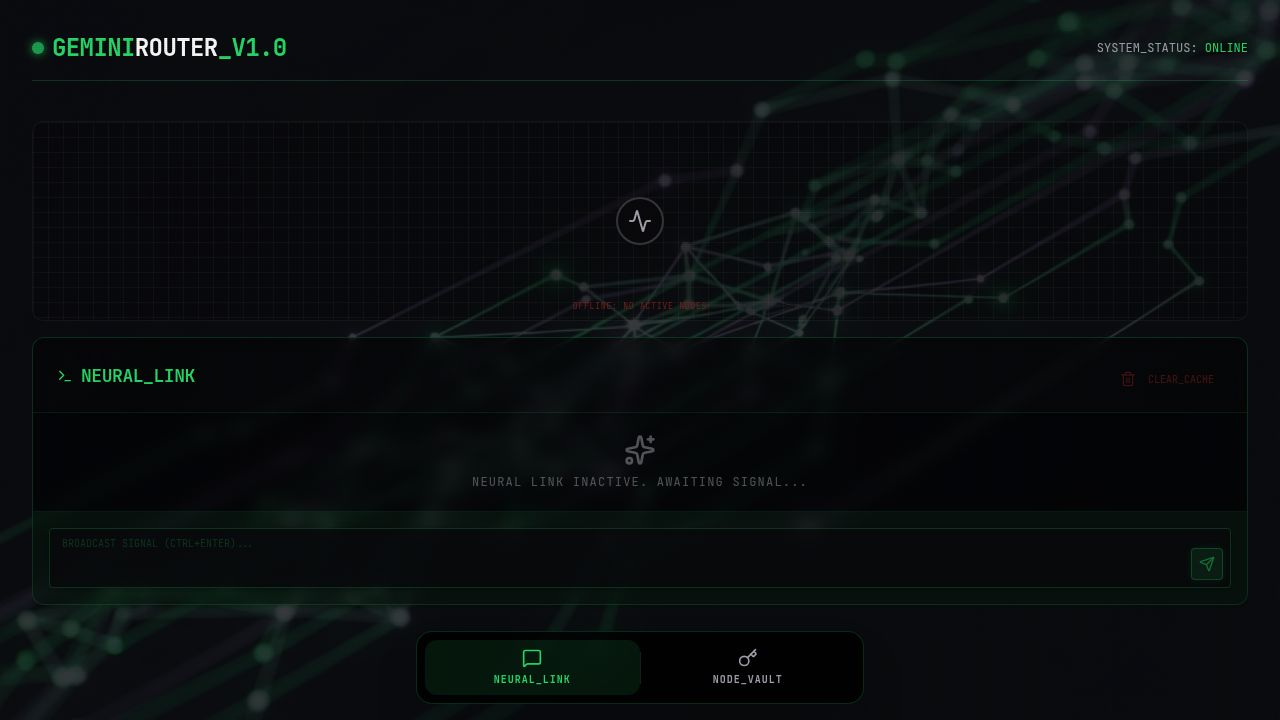
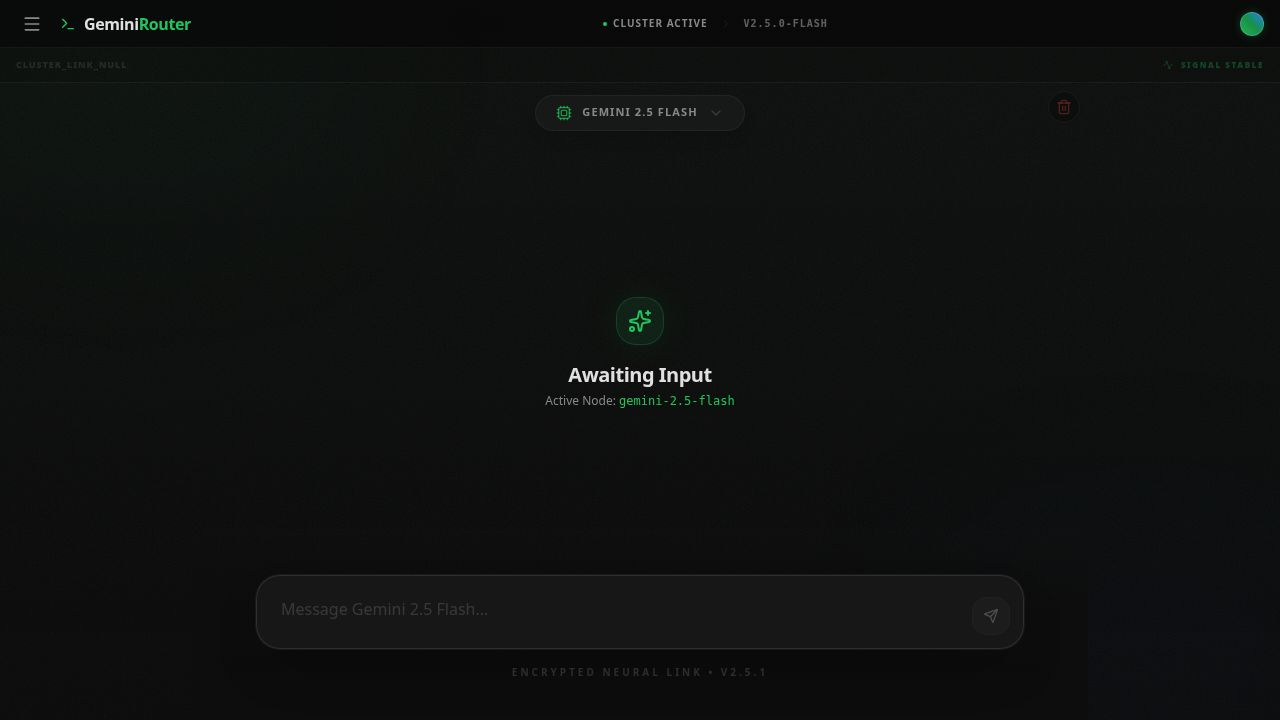
Add a swipeable sidebar for chat history and node management
Integrates a new slide-out sidebar accessible via a left-edge swipe gesture or a menu icon, consolidating chat history and node management (previously in tabs) into a unified interface within the Shell component.

Replit-Commit-Author: Agent
Replit-Commit-Session-Id: 7e080b33-37b4-4b92-8149-df456c27e233
Replit-Commit-Checkpoint-Type: full_checkpoint
Replit-Commit-Event-Id: 03c8e04e-90b6-4cfb-8f2e-70643411be24
Replit-Commit-Screenshot-Url: https://storage.googleapis.com/screenshot-production-us-central1/65e4f3bc-a522-4b14-b7e2-086b0df79833/7e080b33-37b4-4b92-8149-df456c27e233/GoEwOzA
Replit-Helium-Checkpoint-Created: true

diff --git a/client/src/components/layout/Shell.tsx b/client/src/components/layout/Shell.tsx
@@ -1,18 +1,46 @@
-import React, { useState } from 'react';
+import React, { useState, useEffect } from 'react';
 import { cn } from '@/lib/utils';
-import { Sparkles, Terminal, Activity, ShieldCheck, ChevronRight, Settings, X } from 'lucide-react';
+import { Terminal, Activity, ShieldCheck, ChevronRight, Settings, X, MessageSquare, History, Menu } from 'lucide-react';
 import { motion, AnimatePresence } from 'framer-motion';
 
 interface ShellProps {
   children: React.ReactNode;
   settingsContent?: React.ReactNode;
+  historyContent?: React.ReactNode;
 }
 
-export function Shell({ children, settingsContent }: ShellProps) {
-  const [isSettingsOpen, setIsSettingsOpen] = useState(false);
+export function Shell({ children, settingsContent, historyContent }: ShellProps) {
+  const [isSidebarOpen, setIsSidebarOpen] = useState(false);
+  const [touchStart, setTouchStart] = useState<number | null>(null);
+
+  // Swipe logic
+  useEffect(() => {
+    const handleTouchStart = (e: TouchEvent) => {
+      if (e.touches[0].clientX < 50) {
+        setTouchStart(e.touches[0].clientX);
+      }
+    };
+
+    const handleTouchMove = (e: TouchEvent) => {
+      if (touchStart !== null) {
+        const touchEnd = e.touches[0].clientX;
+        if (touchEnd - touchStart > 70) {
+          setIsSidebarOpen(true);
+          setTouchStart(null);
+        }
+      }
+    };
+
+    window.addEventListener('touchstart', handleTouchStart);
+    window.addEventListener('touchmove', handleTouchMove);
+    return () => {
+      window.removeEventListener('touchstart', handleTouchStart);
+      window.removeEventListener('touchmove', handleTouchMove);
+    };
+  }, [touchStart]);
 
   return (
-    <div className="min-h-screen w-full bg-[#0d0d0d] text-[#e0e0e0] font-sans selection:bg-primary/30 selection:text-primary">
+    <div className="min-h-screen w-full bg-[#0d0d0d] text-[#e0e0e0] font-sans selection:bg-primary/30 selection:text-primary overflow-hidden">
       {/* Dynamic Background */}
       <div className="fixed inset-0 z-0 overflow-hidden pointer-events-none">
         <div className="absolute top-[-10%] left-[-10%] w-[40%] h-[40%] bg-primary/5 rounded-full blur-[120px] animate-pulse" />
@@ -25,9 +53,17 @@ export function Shell({ children, settingsContent }: ShellProps) {
         {/* Content Area */}
         <div className="flex-1 flex flex-col relative overflow-hidden bg-gradient-to-b from-black/0 to-black/20">
           <header className="h-12 flex items-center justify-between px-4 border-b border-white/5 bg-black/40 backdrop-blur-xl shrink-0">
-            <div className="flex items-center gap-2">
-              <Terminal className="w-4 h-4 text-primary" />
-              <span className="font-bold tracking-tight text-base">Gemini<span className="text-primary">Router</span></span>
+            <div className="flex items-center gap-3">
+              <button 
+                onClick={() => setIsSidebarOpen(true)}
+                className="p-1.5 rounded-lg hover:bg-white/5 text-muted-foreground transition-all"
+              >
+                <Menu className="w-5 h-5" />
+              </button>
+              <div className="flex items-center gap-2">
+                <Terminal className="w-4 h-4 text-primary" />
+                <span className="font-bold tracking-tight text-base">Gemini<span className="text-primary">Router</span></span>
+              </div>
             </div>
             
             <div className="hidden md:flex items-center gap-3 text-[10px] text-muted-foreground uppercase font-bold tracking-widest">
@@ -40,13 +76,7 @@ export function Shell({ children, settingsContent }: ShellProps) {
             </div>
 
             <div className="flex items-center gap-2">
-              <button 
-                onClick={() => setIsSettingsOpen(true)}
-                className="p-1.5 rounded-lg hover:bg-white/5 text-muted-foreground transition-all"
-              >
-                <Settings className="w-4 h-4" />
-              </button>
-              <div className="w-6 h-6 rounded-full bg-gradient-to-tr from-primary via-primary/80 to-accent border border-white/20 shadow-[0_0_15px_rgba(34,197,94,0.4)] animate-pulse-subtle" />
+              <div className="w-6 h-6 rounded-full bg-gradient-to-tr from-primary via-primary/80 to-accent border border-white/20 shadow-[0_0_10px_rgba(34,197,94,0.3)] animate-pulse-subtle" />
             </div>
           </header>
 
@@ -57,38 +87,69 @@ export function Shell({ children, settingsContent }: ShellProps) {
         </div>
       </div>
 
-      {/* Settings Panel Overlay */}
+      {/* Sidebar Overlay (Unified Chat History + Settings) */}
       <AnimatePresence>
-        {isSettingsOpen && (
+        {isSidebarOpen && (
           <>
             <motion.div 
               initial={{ opacity: 0 }}
               animate={{ opacity: 1 }}
               exit={{ opacity: 0 }}
-              onClick={() => setIsSettingsOpen(false)}
+              onClick={() => setIsSidebarOpen(false)}
               className="fixed inset-0 z-[100] bg-black/80 backdrop-blur-xl"
             />
             <motion.div 
-              initial={{ x: '100%', opacity: 0.5 }}
-              animate={{ x: 0, opacity: 1 }}
-              exit={{ x: '100%', opacity: 0.5 }}
+              initial={{ x: '-100%' }}
+              animate={{ x: 0 }}
+              exit={{ x: '-100%' }}
               transition={{ type: 'spring', damping: 30, stiffness: 300 }}
-              className="fixed top-2 right-2 bottom-2 z-[101] w-full max-w-lg bg-[#111]/95 backdrop-blur-3xl border border-white/10 rounded-3xl shadow-[0_0_50px_rgba(0,0,0,0.5)] flex flex-col overflow-hidden"
+              className="fixed top-0 left-0 bottom-0 z-[101] w-full max-w-sm bg-[#111] border-r border-white/10 shadow-2xl flex flex-col overflow-hidden"
             >
               <div className="h-14 flex items-center justify-between px-6 border-b border-white/5 bg-white/[0.02]">
                 <div className="flex items-center gap-2">
-                  <Settings className="w-3.5 h-3.5 text-primary" />
-                  <span className="font-bold uppercase tracking-widest text-[10px]">Cluster_Management</span>
+                  <Terminal className="w-4 h-4 text-primary" />
+                  <span className="font-bold uppercase tracking-widest text-[10px]">Neural_Terminal</span>
                 </div>
                 <button 
-                  onClick={() => setIsSettingsOpen(false)}
+                  onClick={() => setIsSidebarOpen(false)}
                   className="p-1.5 rounded-lg hover:bg-white/5 text-muted-foreground transition-all"
                 >
-                  <X className="w-4 h-4" />
+                  <X className="w-5 h-5" />
                 </button>
               </div>
-              <div className="flex-1 overflow-y-auto p-6 scrollbar-hide">
-                {settingsContent}
+              
+              <div className="flex-1 overflow-y-auto p-4 space-y-8 scrollbar-hide">
+                {/* Chat History Section */}
+                <div className="space-y-4">
+                  <div className="flex items-center gap-2 px-2">
+                    <History className="w-3.5 h-3.5 text-primary/60" />
+                    <span className="text-[10px] font-black uppercase tracking-[0.2em] text-muted-foreground">Recent_Signals</span>
+                  </div>
+                  <div className="space-y-1">
+                    {historyContent}
+                  </div>
+                </div>
+
+                {/* Settings/Cluster Section */}
+                <div className="space-y-4 pt-4 border-t border-white/5">
+                  <div className="flex items-center gap-2 px-2">
+                    <ShieldCheck className="w-3.5 h-3.5 text-primary/60" />
+                    <span className="text-[10px] font-black uppercase tracking-[0.2em] text-muted-foreground">Cluster_Vault</span>
+                  </div>
+                  <div className="px-1">
+                    {settingsContent}
+                  </div>
+                </div>
+              </div>
+
+              <div className="p-4 border-t border-white/5 bg-black/20">
+                <div className="flex items-center gap-3 px-2 py-3 rounded-xl bg-white/[0.03] border border-white/5">
+                  <div className="w-8 h-8 rounded-full bg-gradient-to-tr from-primary to-accent" />
+                  <div className="flex-1">
+                    <div className="text-[10px] font-bold text-foreground">OPERATOR_01</div>
+                    <div className="text-[8px] text-muted-foreground uppercase tracking-widest">Status: Synchronized</div>
+                  </div>
+                </div>
               </div>
             </motion.div>
           </>

diff --git a/client/src/pages/Dashboard.tsx b/client/src/pages/Dashboard.tsx
@@ -4,7 +4,7 @@ import { KeyManager } from '@/components/KeyManager';
 import { PromptPlayground } from '@/components/PromptPlayground';
 import { useGeminiKeys, sendGeminiPrompt } from '@/lib/gemini';
 import { useToast } from '@/hooks/use-toast';
-import { Activity } from 'lucide-react';
+import { Activity, MessageSquare } from 'lucide-react';
 import { cn } from '@/lib/utils';
 import { motion } from 'framer-motion';
 
@@ -30,10 +30,8 @@ export default function Dashboard() {
   const [isProcessing, setIsProcessing] = useState(false);
   const [selectedModel, setSelectedModel] = useState('gemini-2.5-flash');
 
-  // Handle model change and notify user
   const handleModelChange = (modelId: string) => {
     setSelectedModel(modelId);
-    // Note: In a real app, this might update the preferred model for the cluster
   };
 
   const handleSendPrompt = async (prompt: string, modelOverride?: string): Promise<string> => {
@@ -47,7 +45,6 @@ export default function Dashboard() {
     setActiveKeyId(keyToUse.id);
     addChatMessage('user', prompt);
 
-    // Use selected model from dropdown for this request
     const effectiveKey = { ...keyToUse, model: modelOverride || selectedModel };
 
     try {
@@ -65,26 +62,47 @@ export default function Dashboard() {
     }
   };
 
-  const settingsPanel = (
-    <div className="space-y-6">
-      <div className="space-y-1">
-        <h2 className="text-lg font-bold tracking-tight uppercase">Node Vault</h2>
-        <p className="text-muted-foreground text-[10px] font-bold uppercase opacity-60">Signal Routing Configuration</p>
-      </div>
-      <KeyManager 
-        keys={keys} 
-        autoSwitch={autoSwitch} 
-        onToggleAutoSwitch={toggleAutoSwitch} 
-        onAdd={addKey} 
-        onRemove={removeKey} 
-        onToggle={toggleKey} 
-        onUpdateConfig={updateKeyConfig} 
-      />
+  const userMessages = chatHistory.filter(m => m.role === 'user');
+
+  const historyContent = (
+    <div className="space-y-1">
+      {userMessages.length === 0 ? (
+        <div className="px-4 py-8 text-center border border-dashed border-white/5 rounded-xl">
+          <p className="text-[10px] text-muted-foreground uppercase tracking-widest opacity-50 font-bold">No Signal Logs</p>
+        </div>
+      ) : (
+        userMessages.map((msg) => (
+          <button 
+            key={msg.id}
+            className="w-full text-left px-3 py-2.5 rounded-xl hover:bg-white/[0.04] transition-all group border border-transparent hover:border-white/5"
+          >
+            <div className="flex items-center gap-3">
+              <MessageSquare className="w-3.5 h-3.5 text-primary/40 group-hover:text-primary/70 transition-colors" />
+              <div className="flex-1 truncate">
+                <p className="text-[11px] font-medium text-foreground/80 truncate">{msg.content}</p>
+                <p className="text-[8px] text-muted-foreground uppercase tracking-widest mt-0.5">{new Date(msg.timestamp).toLocaleTimeString([], { hour: '2-digit', minute: '2-digit' })}</p>
+              </div>
+            </div>
+          </button>
+        ))
+      )}
     </div>
   );
 
+  const settingsPanel = (
+    <KeyManager 
+      keys={keys} 
+      autoSwitch={autoSwitch} 
+      onToggleAutoSwitch={toggleAutoSwitch} 
+      onAdd={addKey} 
+      onRemove={removeKey} 
+      onToggle={toggleKey} 
+      onUpdateConfig={updateKeyConfig} 
+    />
+  );
+
   return (
-    <Shell settingsContent={settingsPanel}>
+    <Shell settingsContent={settingsPanel} historyContent={historyContent}>
       <div className="h-full flex flex-col relative">
         <div className="flex-1 flex flex-col overflow-hidden h-full">
           <motion.div 
